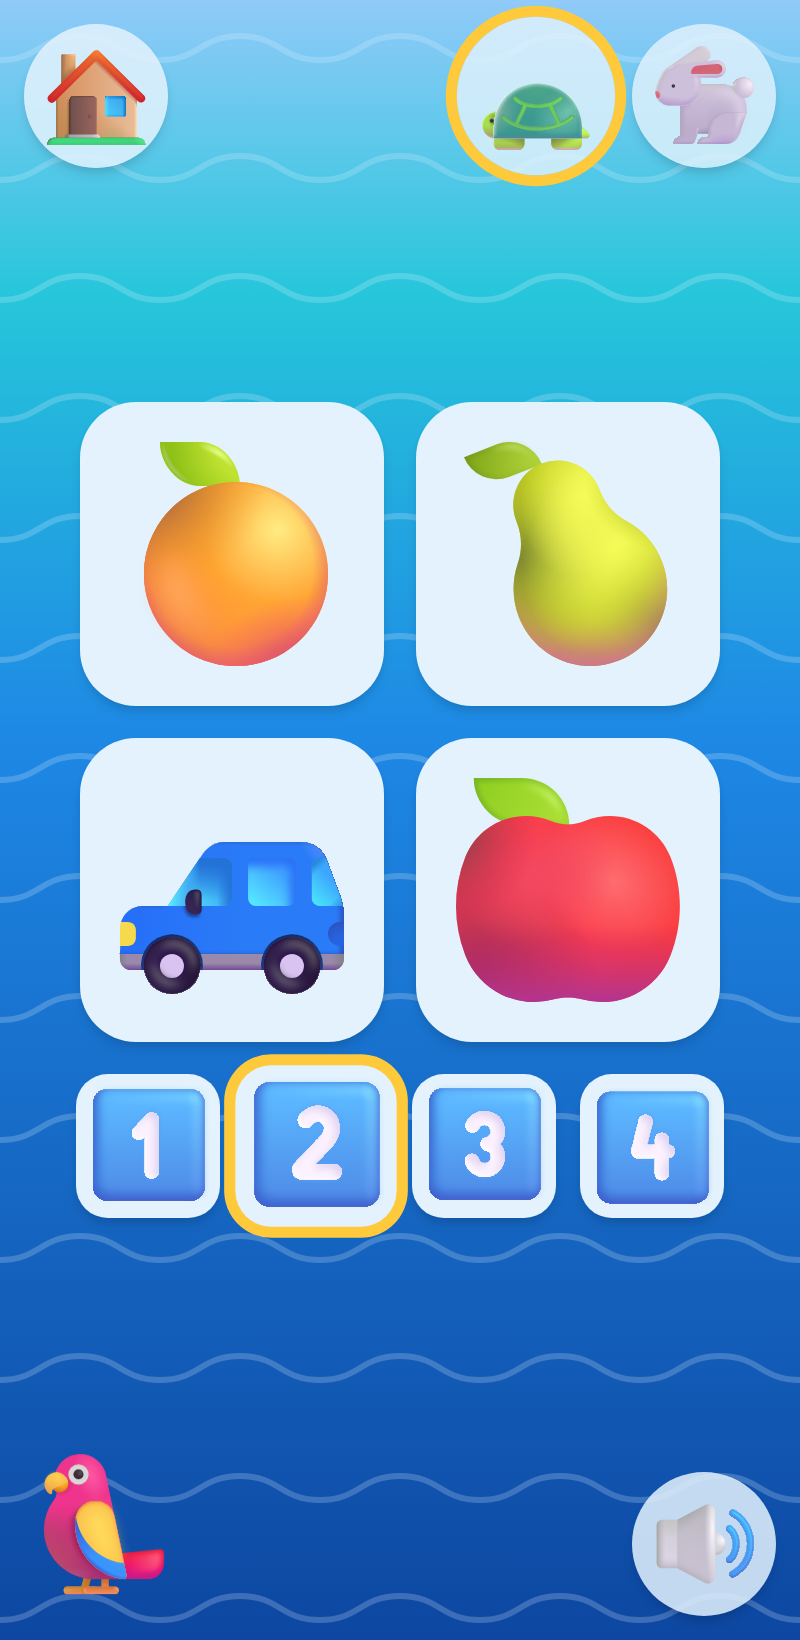
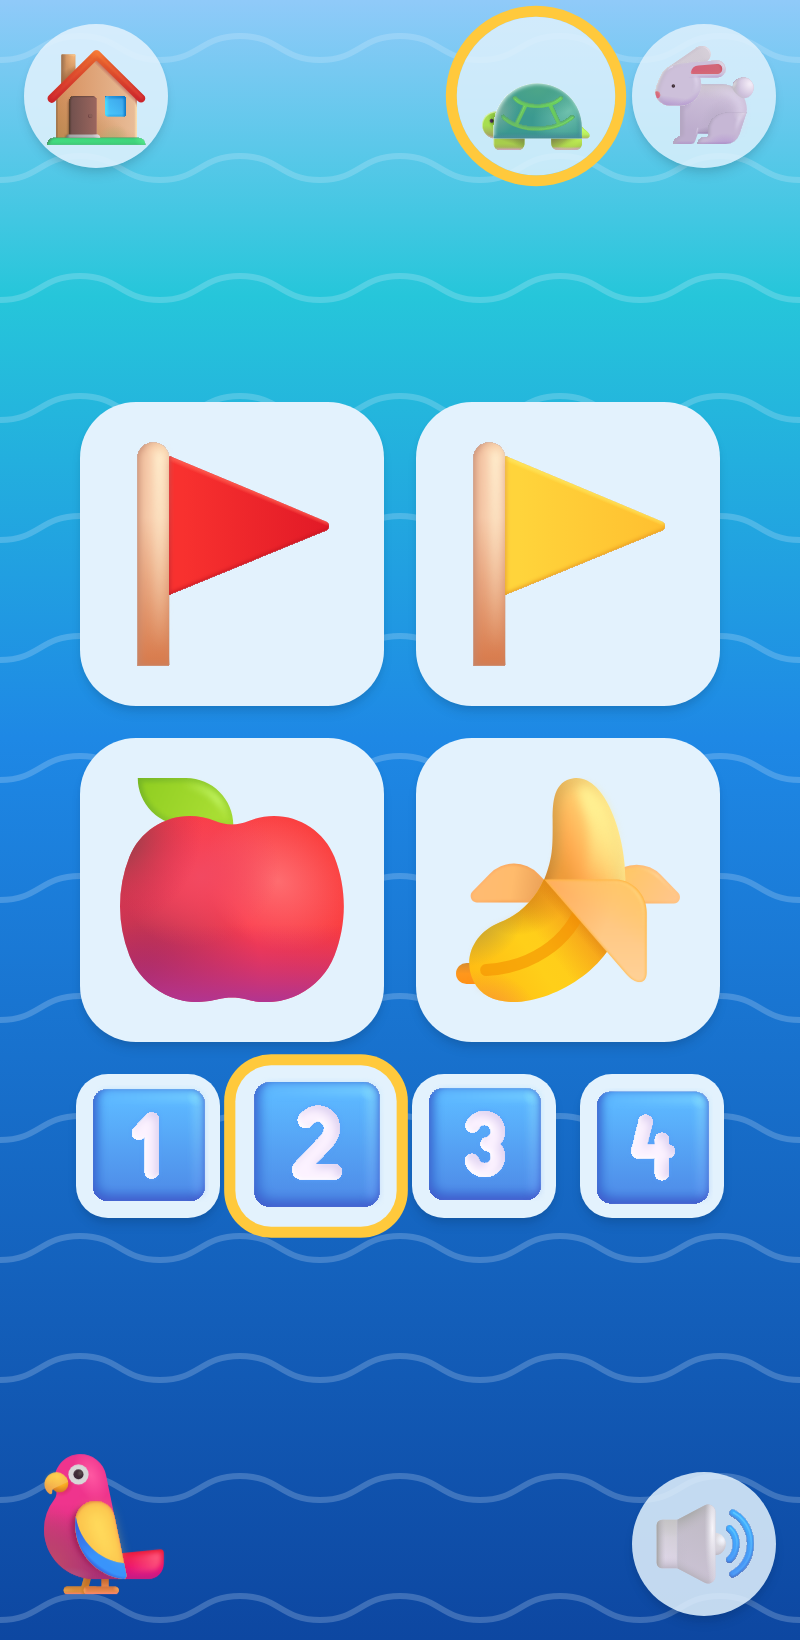
docs: record the owner's eight requests (decisions 104–109) and refresh the README

diff --git a/STATE.md b/STATE.md
@@ -1413,6 +1413,75 @@ exercise" is outside a lesson, and how an import meets data already on the devic
      events of a held touch without a click (no desktop engine reproduces the long-press
      gesture; Chromium's DevTools touch input always clicks). It fails without the fix.
 
+### 2026-11-14 — owner's list after eight islands (outside the phase sequence)
+
+The owner sent eight requests after the child had finished eight islands with no game and no
+story open. Decisions 104–109 answer them; nothing in them needs a migration (every new field
+is optional and absent means the old behaviour).
+
+104. **Why nothing opened, and the fix: every lesson now practises words met before.**
+     Decision 17's `composeLesson` topped a lesson up with *practising* words only when it was
+     shorter than 8 steps, and three new words already make 9 (3 look-and-listen + 6 picks).
+     So after its first lesson a word was never asked again until it was *learned*, which
+     needs a first-try answer on a second day: no word was ever learned, so no game (4
+     learned words) and no story (80 %) could open. Now the automatic lesson fills its 12
+     steps: the new words as before, then one pick each for words met before, in this order:
+     due reviews (most overdue first), words still being practised (those not answered today
+     first, then the fewest first tries), then learned words not due yet (lowest box first).
+     A practised word offers 2 pictures, 3 once it has two first tries; a learned one by its
+     box. With 9 or more words still being practised, a lesson brings one new word fewer, so
+     the backlog shrinks. This is also the owner's "a little more variety, not too much": a
+     lesson with three new words now has six different words (three new, three met), with
+     two new words eight. The child's 24 words already have two first tries each from their
+     first day, so one clean answer on another day makes each learned; games should open
+     within a day or two of lessons or reviews. PLAN.md "A lesson" (new words mixed with
+     reviews) is unchanged in spirit; decision 17's top-up rule is replaced.
+105. **The parent plans lessons ahead** („wybrać każdą lekcję i słówka w tej lekcji”, „kilka
+     lekcji do przodu”). `WordPlan.lessons?: { id, words }[]`, in order, inside the plan's
+     `Lww` register like the queue. *Plan lekcji* on `/parent/child/:id`: „Zaplanuj lekcję”
+     opens a picker of every topic's words (each with its state), up to **4 words** per lesson
+     (four new words fill 12 steps), then the list of planned islands, each with ↑/↓,
+     „Zmień słówka” and ✕. The next island plays the first planned lesson not finished on any
+     device: its new words introduced and picked twice out of two pictures, its words met
+     before picked twice each (a review if due), topped up to 8 steps with due and practised
+     words. Finishing it writes `LessonRecord.planned = id` on the child's device (the child
+     never writes the plan, as with the queue, decision 34), and the parent's next save drops
+     finished lessons. With none left, lessons come from the queue and topics as before. A
+     planned word that is paused or marked known is still used: the parent chose it.
+106. **„Powtórka”: a review of words met before, trouble words first.** A 🔁 button (Fluent
+     *Repeat button*) in the map's bottom bar, shown once the child has met 3 words. It opens
+     `/child/:id/lesson?review` (a query, not a new route, so PLAN.md's screen list stands):
+     up to 6 words, the trouble words first and the rest drawn at random, each asked once in a
+     shuffled round, then the trouble words once more, never the same word twice in a row.
+     Polly opens with `review.start` and ends with `review.finish` (new prompts). Answers are
+     recorded and stars paid like a lesson, but it is not an island: no flag, no
+     `LessonRecord`, never a planned lesson. **A trouble word** is derived, not stored: day by
+     day, each first-try miss adds 2 and each first-try answer takes 1 away, never below 0;
+     the word is in trouble while that is above 0. So one miss needs two clean answers later,
+     a word right only half the time (chance, with two pictures) stays in trouble, and a word
+     the child has since mastered, in a lesson or a review, leaves the list by itself. The
+     parent's „Do poćwiczenia” (decision 96) now uses the same rule, so it too empties as
+     words are mastered; it still shows the total misses.
+107. **Verbs: a new topic *Czynności* (actions), 12 words, level 3**: cook, eat, drink, buy,
+     sleep, run, walk, swim, sing, clap, draw, wash. English base form; the Polish is the
+     owner's form („gotuje”, „pije”, „kupuje”…), `plAcc` the genitive of the noun
+     („gotowania”). Each is a still Fluent picture of the action (🍳, 😋, 🥤, 🛒, 😴, 🏃,
+     🚶, 🏊, 🎤, 👏, 🖍, 🧼), so open question 7 (animation for verbs) stays open for Phase
+     11. *Cook*, *Singer* and *Woman dancing* were over the 25 kB budget even at
+     `floatPrecision` 1, so cook is the pan, sing the microphone, and *dance* gave way to
+     *clap*; the walking and running people need `floatPrecision` 2. The topic is off by
+     default (not in `DEFAULT_TOPICS`): the parent switches it on or plans its words. A sticker
+     set *actions* (clap is the rare one). Actions are not food for *Nakarm Polly* nor things to
+     paint in *Pokoloruj*; every other game may use them. 12 pictures, 1 more for 🔁.
+108. **The colours are flags again**, at the owner's request (reverting decision 100): the
+     recoloured triangular flags of decision 55 come back byte for byte, with their ids,
+     stickers and the story's pictures; the story is *Polly's Flags* / „Flagi Polly” again.
+109. **„Bardzo dobrze!” in place of *Good job!* and *Super!*.** `content/praise.json` entries
+     are `{ "en": … }` or `{ "pl": … }`; the rotation is Great!, Bardzo dobrze!, Yes!, Well
+     done!, Bardzo dobrze!. The Polish line goes through the Polish voice and is skipped while
+     Polish prompts are off. PLAN.md's "a short English praise" now has a Polish one among
+     them.
+
 ## Open questions
 
 Copied from PLAN.md. Each is settled in the phase named and the answer recorded here.
@@ -1434,4 +1503,5 @@ Copied from PLAN.md. Each is settled in the phase named and the answer recorded 
    pictures are replaceable" (Phases 2, 3 and 5). **Still open after Phase 5**: all four gate
    verdicts need the owner (two phones; the child). Nothing measured here argues for a swap.
 7. **Level-2 and level-3 content** (verbs, adjectives) needs animation, not a still picture.
-   The scope of animation per word is decided when Phase 11 starts.
+   The scope of animation per word is decided when Phase 11 starts. Since decision 107 twelve
+   verbs exist as still pictures; animating them is part of this question.

diff --git a/README.md b/README.md
@@ -14,10 +14,13 @@ Pre A1 Starters). The code, comments and documentation are in English.
 > local data layer, speech, children and the word plan, real lessons, rewards, Drive sync,
 > inviting the second parent, stories with more games, and screen time with the progress
 > dashboard. A parent sets up a
-> child (nickname and an animal picture), chooses the topics and, if they like, the exact words
-> to start with. The child gets a treasure map of islands: each island is a lesson of about
-> 8–12 steps, up to three new words in *look and listen*, then „Gdzie jest…?” picks with 2–4
-> pictures that mix the new words with reviews. A wrong tap only wiggles and says the word again;
+> child (nickname and an animal picture), chooses the topics (colours, numbers, fruit, animals,
+> body parts, everyday actions) and, if they like, the exact words to start with, or plans the
+> next islands ahead with up to four words each. The child gets a treasure map of islands: each
+> island is a lesson of about 8–12 steps, up to three new words in *look and listen*, then
+> „Gdzie jest…?” picks with 2–4 pictures that mix the new words with words met before, so every
+> word comes back until it is learned. *Powtórka* (🔁 on the map) reviews words already met,
+> the ones that gave trouble first. A wrong tap only wiggles and says the word again;
 > after the second miss the right picture glows. Stars appear at the end of each island. Once a
 > child has learned four words, a game shelf opens with up to nine games over learned words
 > only: *Posłuchaj i dotknij*, *Cyferki* (tap a digit, hear a word, find its picture),
@@ -49,15 +52,15 @@ Pre A1 Starters). The code, comments and documentation are in English.
 
 | Treasure map (child) | Look and listen (child) | Listen and tap (child) |
 |---|---|---|
-| ![Islands in a blue sea: one with a flag, the next with Polly on her sailboat, two more ahead; a star meter two-thirds full and a faded chest at the top, a die and an album at the bottom](docs/screenshots/map.png) | ![A big red car to tap, progress dots, the turtle and rabbit speed buttons and a house to hold for leaving](docs/screenshots/lesson.png) | ![Two cars to choose from after two wrong taps: the right one glows coral; Polly and a speaker button below](docs/screenshots/pick.png) |
+| ![Islands in a blue sea: one with a flag, the next with Polly on her sailboat, two more ahead; a star meter two-thirds full and a faded chest at the top; a die, a book, the 🔁 of Powtórka and an album at the bottom](docs/screenshots/map.png) | ![A big red flag to tap, progress dots, the turtle and rabbit speed buttons and a house to hold for leaving](docs/screenshots/lesson.png) | ![Two flags to choose from after two wrong taps: the right one glows coral; Polly and a speaker button below](docs/screenshots/pick.png) |
 | **Cyferki (child)** | **Island won (child)** | **Start (child)** |
 | ![Four fruit pictures above four digit tiles 1–4; digit 2 is picked and ringed in gold](docs/screenshots/digits.png) | ![The island with its flag, Polly, and a row of gold stars earned](docs/screenshots/finish.png) | ![Polly the parrot on the sea, ringed by a pulsing gold circle: tap to begin](docs/screenshots/start.png) |
 | **Treasure chest (child)** | **Sticker album (child)** | **A story (child)** |
 | ![An open pirate chest glowing gold, a new sticker (a pear) above it and a green ▶ below](docs/screenshots/chest.png) | ![The album's fruit page: topic tabs above a grid of dashed slots with fruit silhouettes; the pear sticker ringed in gold](docs/screenshots/album.png) | ![A beach scene with Polly and a big red apple, page dots above and the sentence "Look! A red apple." below](docs/screenshots/story.png) |
 | **Pokoloruj (child)** | **Gdzie jest…? (child)** | **Polly asleep: the lock (child)** |
-| ![A pear painted yellow above three paint pots, the yellow one ringed in gold](docs/screenshots/paint.png) | ![A beach scene with eight learned things to find: cars, fruit](docs/screenshots/spy.png) | ![The lock: a night sea with a moon and Polly asleep with a zzz; only the gear in the corner](docs/screenshots/sleep.png) |
+| ![A pear painted yellow above three paint pots, the yellow one ringed in gold](docs/screenshots/paint.png) | ![A beach scene with eight learned things to find: flags, fruit](docs/screenshots/spy.png) | ![The lock: a night sea with a moon and Polly asleep with a zzz; only the gear in the corner](docs/screenshots/sleep.png) |
 | **Parent gate** | **Word plan (parent)** | **Speech and voices (parent)** |
-| ![The parent gate: „dziesięć” written in words above a number keypad](docs/screenshots/gate.png) | ![A child's next new words and the word plan: queue, random order, topics](docs/screenshots/plan.png) | ![The parent's speech screen: voice check, accent, speeds](docs/screenshots/speech.png) |
+| ![The parent gate: „dziesięć” written in words above a number keypad](docs/screenshots/gate.png) | ![A child's next new words, the lesson plan and the word plan: queue, random order, topics](docs/screenshots/plan.png) | ![The parent's speech screen: voice check, accent, speeds](docs/screenshots/speech.png) |
 | **Progress (parent)** | | |
 | ![The progress dashboard: learned words per topic as bars, words to practise, a 4-week calendar of minutes](docs/screenshots/dashboard.png) | | |
 
